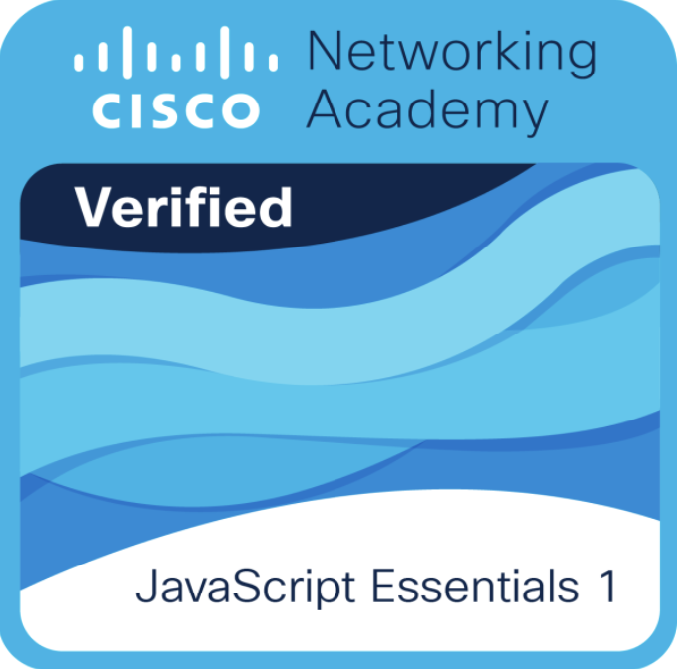
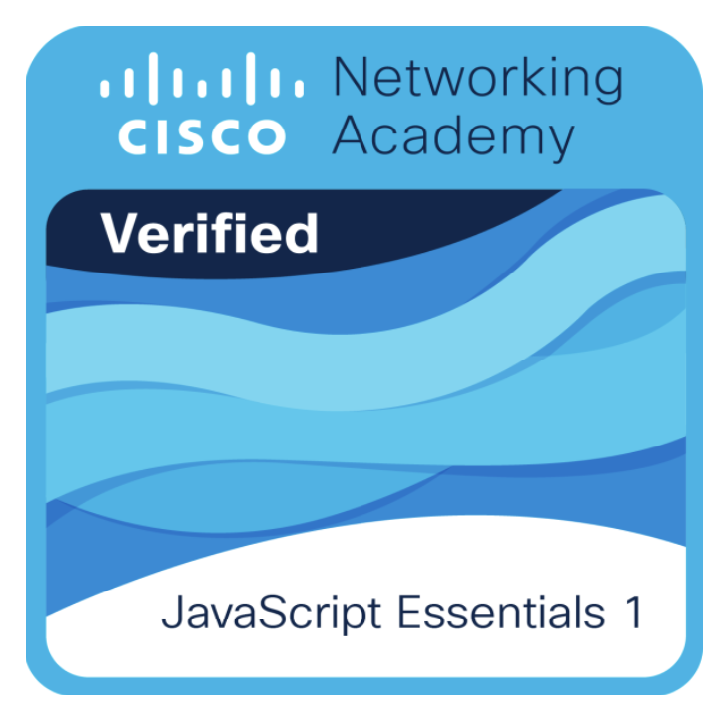
Updates

diff --git a/index.html b/index.html
@@ -178,7 +178,7 @@
           <div class="flex flex-col md:flex-row space-x-0 md:space-x-6"> <!--Background container-->
             <div class="flex flex-col space-y-4">
 
-              <div id="about" class="max-w-xl about-container fade-up bg-white space-y-5 flex flex-col shadow-sm rounded px-8 pt-8 pb-9">
+              <div id="about" class="max-w-xl bg-white space-y-5 flex flex-col shadow-sm rounded px-8 pt-8 pb-9">
                 <h2 class="heading">About</h2>
                 <div class="flex flex-col"> 
                   <p>
@@ -197,7 +197,7 @@
                 </div>
                </div>
   
-               <div class="max-w-xl bg-white about-container fade-up space-y-5 flex flex-col shadow-sm rounded p-8">
+               <div class="max-w-xl bg-white space-y-5 flex flex-col shadow-sm rounded p-8">
                 <h3 class="heading">Work Experience</h3>
                 <div class="flex flex-col space-y-3 border-b border-gray-300 border-solid pb-2">
                   <div class="space-x-1">
@@ -282,7 +282,7 @@
                </div>
               </div>
   
-              <div class="flex flex-col fade-up about-container bg-white space-y-2 max-h-60 shadow-sm rounded p-8">
+              <div class="flex flex-col about-container bg-white space-y-2 max-h-60 shadow-sm rounded p-8">
                 <div class="flex space-x-3">
                   <span class="text-green-500"><i class="fa-solid fa-location-dot"></i></span>
                   <b>Lagos, Nigeria</b>
@@ -296,7 +296,7 @@
                  </div>
               </div>
   
-              <div id="stacks" class="flex fade-up about-container bg-white flex-col space-y-2 shadow-sm rounded p-8"> <!--Stacks container-->
+              <div id="stacks" class="flex about-container bg-white flex-col space-y-2 shadow-sm rounded p-8"> <!--Stacks container-->
                 <h3 class="heading mb-5">Stacks</h3>
   
                 <div class="flex flex-col space-y-7 md:space-y-3">
@@ -326,7 +326,7 @@
               </div>
           </div>
 
-          <div id="projects" class="flex p-8 fade-up  bg-white flex-col space-y-4 shadow-sm rounded"> <!--Projects container-->
+          <div id="projects" class="flex p-8  bg-white flex-col space-y-4 shadow-sm rounded"> <!--Projects container-->
 
             <div class="border-b mb-5 pt-2 pb-3 border-gray-300 border-solid">
               <p class="heading">Projects</p>
@@ -336,7 +336,7 @@
 
               <div class="projects-main-container flex flex-col max-w-md p-3 space-x-2 shadow-sm rounded">
 
-                <div class="projects-img-div"><a href="https://the-shoppies-git-main-lazy-poet.vercel.app" target="_self">
+                <div class="projects-img-div"><a href="https://the-shoppies-git-main-lazy-poet.vercel.app" target="_blank">
                   <img class="rounded shadow-sm projects-img" src="Thumbnails/movies.jpg"></a>
                 </div>
                <div class="flex flex-col space-y-2">
@@ -346,7 +346,7 @@
                 </p>
 
                 <div class="text-center cursor-pointer text-green-500">
-                  <a class="flex" href="https://the-shoppies-git-main-lazy-poet.vercel.app" target="_self">
+                  <a class="flex" href="https://the-shoppies-git-main-lazy-poet.vercel.app" target="_blank">
                   <span><i class="fa-solid fa-link"></i>
                   </span>Live</a>
                 </div>
@@ -357,7 +357,7 @@
 
               <div class="projects-main-container flex flex-col max-w-md p-3 space-x-2 shadow-sm rounded">
 
-                <div class="projects-img-div"><a href="https://tobechi-stopwatch.vercel.app" target="_self">
+                <div class="projects-img-div"><a href="https://tobechi-stopwatch.vercel.app" target="_blank">
                   <img class="rounded shadow-sm watch-img" src="Thumbnails/stp.png"></a>
                 </div>
                <div class="flex flex-col space-y-2">
@@ -367,7 +367,7 @@
                 </p>
 
                 <div class="text-center cursor-pointer text-green-500">
-                  <a class="flex" href="https://tobechi-stopwatch.vercel.app" target="_self">
+                  <a class="flex" href="https://tobechi-stopwatch.vercel.app" target="_blank">
                   <span><i class="fa-solid fa-link"></i>
                   </span>Live</a>
                 </div>
@@ -382,7 +382,7 @@
 
               <div class="projects-main-container flex flex-col max-w-md p-3 space-x-2 shadow-sm rounded">
 
-                <div class="projects-img-div"><a href="https://jumia-clone-sl3f.vercel.app" target="_self">
+                <div class="projects-img-div"><a href="https://jumia-clone-sl3f.vercel.app" target="_blank">
                   <img class="rounded shadow-sm watch-img" src="Thumbnails/e-commerce.jpg"></a>
                 </div>
                <div class="flex flex-col space-y-2">
@@ -392,7 +392,7 @@
                 </p>
 
                 <div class="text-center text-green-500">
-                  <a class="flex" href="https://jumia-clone-sl3f.vercel.app" target="_self">
+                  <a class="flex" href="https://jumia-clone-sl3f.vercel.app" target="_blank">
                   <span><i class="fa-solid fa-link"></i>
                   </span>Live</a>
                 </div>
@@ -403,7 +403,7 @@
 
               <div class="projects-main-container flex flex-col max-w-md p-3 space-x-2 shadow-sm rounded">
 
-                <div class="projects-img-div"><a href="https://tobechi-calculator.vercel.app" target="_self">
+                <div class="projects-img-div"><a href="https://tobechi-calculator.vercel.app" target="_blank">
                   <img class="rounded shadow-sm watch-img" src="Thumbnails/CalcNet.png"></a>
                 </div>
                <div class="flex flex-col space-y-2">
@@ -413,7 +413,7 @@
                 </p>
 
                 <div class="text-center text-green-500">
-                  <a class="flex" href="https://tobechi-calculator.vercel.app" target="_self">
+                  <a class="flex" href="https://tobechi-calculator.vercel.app" target="_blank">
                   <span><i class="fa-solid fa-link"></i>
                   </span>Live</a>
                 </div>
@@ -425,7 +425,7 @@
             </div>
 
             <div class="text-white ml-0 md:ml-3 text-center">
-              <a href="https://github.com/Tobe01?tab=repositories">
+              <a href="https://github.com/Tobe01?tab=repositories" target="_blank">
                 <button class="bg-green-500 flex rounded-md font-semibold text-center text-white py-3 px-3">MORE ON GITHUB<span class="ml-2"><i class="fa-solid fa-arrow-right"></i></button>
               </a>
             </div>

diff --git a/certifications.html b/certifications.html
@@ -38,7 +38,7 @@
   
     <section>
       <main>
-        <div class="flex p-8 mt-10 fade-up about-container bg-white flex-col space-y-4 shadow-sm rounded"> <!--Projects container-->
+        <div class="flex p-8 mt-10 bg-white flex-col space-y-4 shadow-sm rounded"> <!--Projects container-->
 
           <div class="border-b mb-5 pt-2 pb-3 border-gray-300 border-solid">
             <p class="heading">Certifications</p>
@@ -52,7 +52,7 @@
                 <img class="rounded shadow-sm projects-img" src="Thumbnails/javascript.png"></a>
               </div>
   
-              <div class="text-center text-green-500">
+              <div class="text-center mt-1 text-green-500">
                 <a class="flex space-x-1" href="#">
                 <span><i class="fa-solid fa-circle-check"></i>
                 </span> <span>Verify</span></a>
@@ -63,10 +63,10 @@
             <div class="flex flex-col max-w-md p-3 space-x-2 shadow-sm rounded">
   
               <div class="projects-img-div"><a href="" target="_blank">
-                <img class="rounded shadow-sm projects-img" src="Thumbnails/IMG_61555.png"></a>
+                <img class="rounded shadow-sm cisco-img" src="Thumbnails/IMG_61555.png"></a>
               </div>
   
-              <div class="text-center text-green-500">
+              <div class="text-center mt-1 text-green-500">
                 <a class="flex space-x-1" href="#">
                 <span><i class="fa-solid fa-circle-check"></i>
                 </span> <span>Verify</span></a>
@@ -84,7 +84,7 @@
                 <img class="rounded shadow-sm projects-img" src="Thumbnails/NSE.png"></a>
               </div>
   
-              <div class="text-center text-green-500">
+              <div class="text-center mt-1 text-green-500">
                 <a class="flex space-x-1" href="#">
                 <span><i class="fa-solid fa-circle-check"></i>
                 </span> <span>Verify</span></a>
@@ -98,7 +98,7 @@
                 <img class="rounded shadow-sm projects-img" src="Thumbnails/IMG_6154.PNG"></a>
               </div>
   
-              <div class="text-center text-green-500">
+              <div class="text-center mt-1 text-green-500">
                 <a class="flex space-x-1" href="#">
                 <span><i class="fa-solid fa-circle-check"></i>
                 </span> <span>Verify</span></a>

diff --git a/styles.css b/styles.css
@@ -9,11 +9,6 @@ body {
   background: rgb(218, 227, 231);
 }
 
-.about-container {
-  z-index: -200;
-}
-
-
 /* Animation for name, buttons and other details */
 
 .fade-up {
@@ -23,6 +18,7 @@ body {
   opacity: 0;
   bottom: -60px;
 }
+
 
 @keyframes fade-up {
   0% {
@@ -152,6 +148,7 @@ h1 span {
   background-color: rgba(0, 0, 0, 0.6);
 }
 
+
 .toggle-image {
   border-top-left-radius: 14px;
   border-top-right-radius: 14px;
@@ -244,13 +241,17 @@ h1 span {
 }
 
 .projects-main-container:hover {
- box-shadow: 10px 10px 10px 10px grey;
+ box-shadow: 5px 2px 15px 0px rgba(220, 218, 218, 0.3);
 }
 
 .watch-img {
   width: 100%;
   max-width: 100%;
   max-height: 265px;
+}
+
+.cisco-img {
+  max-height: 330px; 
 }
 
 /* Styles for scroll-to-top button */

diff --git a/css/main.css b/css/main.css
@@ -558,6 +558,22 @@ video {
   top: 0px;
 }
 
+.z-0 {
+  z-index: 0;
+}
+
+.z-10 {
+  z-index: 10;
+}
+
+.-z-10 {
+  z-index: -10;
+}
+
+.z-50 {
+  z-index: 50;
+}
+
 .m-auto {
   margin: auto;
 }
